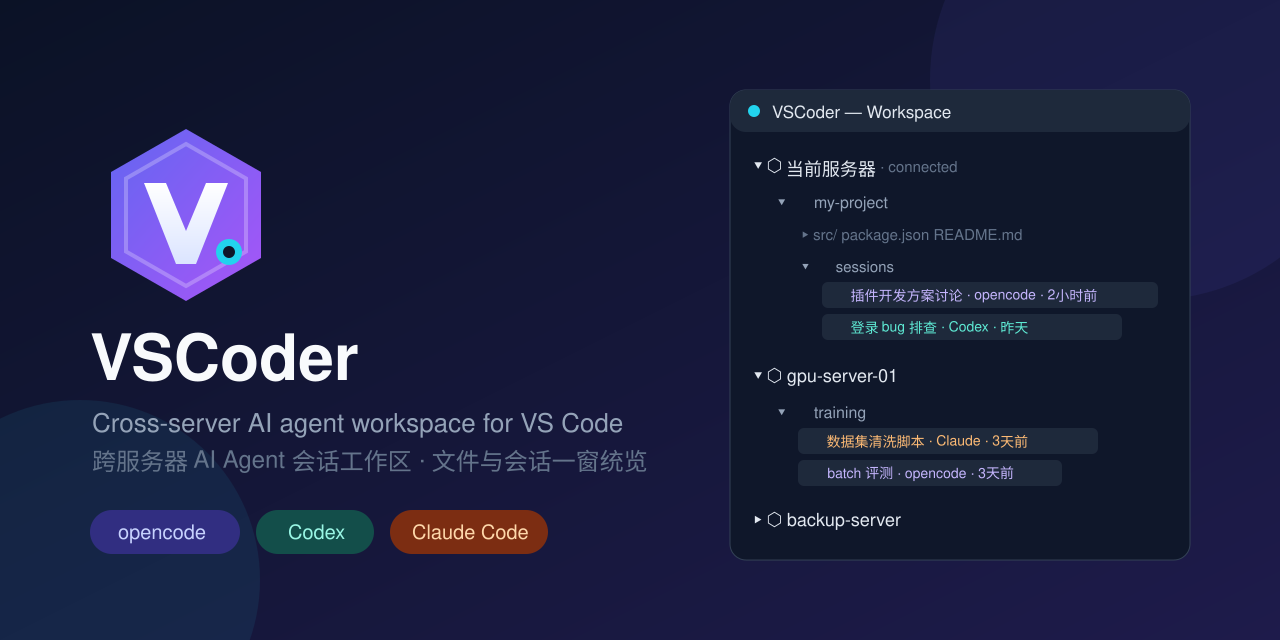
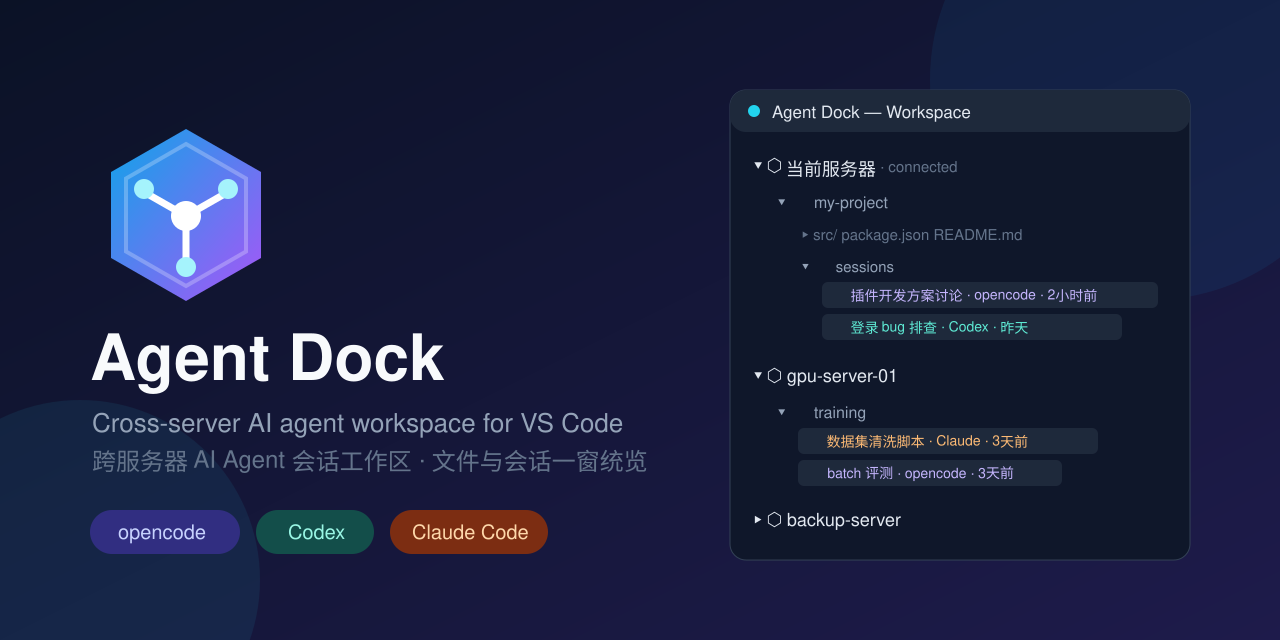
feat: rename to Agent Dock (vscoder name taken on marketplace)
verified free via gallery API (vscoder/agent-bridge/agent-hub taken;
agent-dock available). package/command/config/view ids ->
agentDock.*; config fallback chain vscoder + agentWorkspace; new
hub-spoke node logo + regenerated promo banner and README branding;
repo URL assumed github.com/royenheart/agent-dock

Changed region(s): [[0.0625, 0.1875, 0.2188, 0.4688], [0.0625, 0.5, 0.3438, 0.625], [0.5938, 0.1562, 0.75, 0.1875]]

diff --git a/src/commands.ts b/src/commands.ts
@@ -352,11 +352,11 @@ export function registerCommands(context: vscode.ExtensionContext, provider: Wor
     context.subscriptions.push(vscode.commands.registerCommand(id, fn));
   };
 
-  reg('vscoder.refresh', () => provider.refresh());
+  reg('agentDock.refresh', () => provider.refresh());
 
-  reg('vscoder.addServer', (node?: ServerNode) => addDirectoryFlow(provider, node));
+  reg('agentDock.addServer', (node?: ServerNode) => addDirectoryFlow(provider, node));
 
-  reg('vscoder.removeServer', async (node: ServerNode) => {
+  reg('agentDock.removeServer', async (node: ServerNode) => {
     if (!node?.server) {
       return;
     }
@@ -371,13 +371,13 @@ export function registerCommands(context: vscode.ExtensionContext, provider: Wor
     }
   });
 
-  reg('vscoder.connect', async (node: ServerNode) => {
+  reg('agentDock.connect', async (node: ServerNode) => {
     if (node?.server) {
       await connectToServer(node.server);
     }
   });
 
-  reg('vscoder.connectTerminal', (node: ServerNode) => {
+  reg('agentDock.connectTerminal', (node: ServerNode) => {
     if (!node?.server) {
       return;
     }
@@ -387,46 +387,46 @@ export function registerCommands(context: vscode.ExtensionContext, provider: Wor
     term.show();
   });
 
-  reg('vscoder.openSession', async (node: SessionNode) => {
+  reg('agentDock.openSession', async (node: SessionNode) => {
     const target = node ? sessionTarget(node) : undefined;
     if (target) {
       await SessionPanel.show(target, resumeInTerminal);
     }
   });
 
-  reg('vscoder.resumeSession', (node: SessionNode) => {
+  reg('agentDock.resumeSession', (node: SessionNode) => {
     const target = node ? sessionTarget(node) : undefined;
     if (target) {
       resumeInTerminal(target);
     }
   });
 
-  reg('vscoder.copySessionId', async (node: SessionNode) => {
+  reg('agentDock.copySessionId', async (node: SessionNode) => {
     if (node?.session) {
       await vscode.env.clipboard.writeText(node.session.id);
       vscode.window.showInformationMessage(t('Session ID copied: {0}', node.session.id));
     }
   });
 
-  reg('vscoder.fsOpenSide', (node: FsEntryNode) => {
+  reg('agentDock.fsOpenSide', (node: FsEntryNode) => {
     if (node?.uri) {
       void vscode.commands.executeCommand('vscode.open', node.uri, { viewColumn: vscode.ViewColumn.Beside });
     }
   });
 
-  reg('vscoder.fsCopyPath', async (node: FsEntryNode) => {
+  reg('agentDock.fsCopyPath', async (node: FsEntryNode) => {
     if (node?.uri) {
       await vscode.commands.executeCommand('copyFilePath', node.uri);
     }
   });
 
-  reg('vscoder.fsCopyRelativePath', async (node: FsEntryNode) => {
+  reg('agentDock.fsCopyRelativePath', async (node: FsEntryNode) => {
     if (node?.uri) {
       await vscode.commands.executeCommand('copyRelativeFilePath', node.uri);
     }
   });
 
-  reg('vscoder.fsRevealOS', async (node: FsEntryNode) => {
+  reg('agentDock.fsRevealOS', async (node: FsEntryNode) => {
     if (node?.uri) {
       try {
         await vscode.commands.executeCommand('revealFileInOS', node.uri);
@@ -436,7 +436,7 @@ export function registerCommands(context: vscode.ExtensionContext, provider: Wor
     }
   });
 
-  reg('vscoder.fsNewFile', async (node: FsEntryNode | FolderNode, name?: string) => {
+  reg('agentDock.fsNewFile', async (node: FsEntryNode | FolderNode, name?: string) => {
     const dir = targetDirUri(node);
     if (!dir) {
       return;
@@ -451,7 +451,7 @@ export function registerCommands(context: vscode.ExtensionContext, provider: Wor
     await vscode.window.showTextDocument(target, { preview: false });
   });
 
-  reg('vscoder.fsNewFolder', async (node: FsEntryNode | FolderNode, name?: string) => {
+  reg('agentDock.fsNewFolder', async (node: FsEntryNode | FolderNode, name?: string) => {
     const dir = targetDirUri(node);
     if (!dir) {
       return;
@@ -464,7 +464,7 @@ export function registerCommands(context: vscode.ExtensionContext, provider: Wor
     provider.refresh();
   });
 
-  reg('vscoder.fsRename', async (node: FsEntryNode, newName?: string) => {
+  reg('agentDock.fsRename', async (node: FsEntryNode, newName?: string) => {
     if (node?.kind !== 'fsEntry') {
       return;
     }
@@ -478,7 +478,7 @@ export function registerCommands(context: vscode.ExtensionContext, provider: Wor
     provider.refresh();
   });
 
-  reg('vscoder.fsDelete', async (node: FsEntryNode) => {
+  reg('agentDock.fsDelete', async (node: FsEntryNode) => {
     if (node?.kind !== 'fsEntry') {
       return;
     }
@@ -493,14 +493,14 @@ export function registerCommands(context: vscode.ExtensionContext, provider: Wor
     }
   });
 
-  reg('vscoder.fsOpenTerminal', (node: FsEntryNode | FolderNode) => {
+  reg('agentDock.fsOpenTerminal', (node: FsEntryNode | FolderNode) => {
     const dir = targetDirUri(node);
     if (dir) {
       vscode.window.createTerminal({ cwd: dir.fsPath }).show();
     }
   });
 
-  reg('vscoder.createSession', async (node: FolderNode, agent?: 'opencode' | 'codex' | 'claude') => {
+  reg('agentDock.createSession', async (node: FolderNode, agent?: 'opencode' | 'codex' | 'claude') => {
     if (node?.kind !== 'folder') {
       return;
     }
@@ -534,7 +534,7 @@ export function registerCommands(context: vscode.ExtensionContext, provider: Wor
     }
   });
 
-  reg('vscoder.fsRemoveFromWorkspace', (node: FolderNode): boolean => {    if (node?.kind !== 'folder' || !node.workspaceUri) {
+  reg('agentDock.fsRemoveFromWorkspace', (node: FolderNode): boolean => {    if (node?.kind !== 'folder' || !node.workspaceUri) {
       return false;
     }
     const folders = vscode.workspace.workspaceFolders ?? [];
@@ -553,7 +553,7 @@ export function registerCommands(context: vscode.ExtensionContext, provider: Wor
     return ok;
   });
 
-  reg('vscoder.openSettings', async () => {
-    await vscode.commands.executeCommand('vscoder.settings.focus');
+  reg('agentDock.openSettings', async () => {
+    await vscode.commands.executeCommand('agentDock.settings.focus');
   });
 }

diff --git a/test/e2e/suite/extension.test.js b/test/e2e/suite/extension.test.js
@@ -9,7 +9,7 @@ suite('agent-workspace e2e', () => {
   let api;
 
   suiteSetup(async () => {
-    const ext = vscode.extensions.getExtension('royenheart.vscoder');
+    const ext = vscode.extensions.getExtension('royenheart.agent-dock');
     assert.ok(ext, 'extension should be installed');
     api = await ext.activate();
     assert.ok(api && api.provider, 'activate() should export { provider, decorations }');
@@ -96,7 +96,7 @@ suite('agent-workspace e2e', () => {
   test('create session command opens a terminal for the picked agent', async () => {
     const children = await currentServerChildren();
     const wsFolder = children.find((n) => n.kind === 'folder' && n.workspaceUri);
-    await vscode.commands.executeCommand('vscoder.createSession', wsFolder, 'codex');
+    await vscode.commands.executeCommand('agentDock.createSession', wsFolder, 'codex');
     await new Promise((r) => setTimeout(r, 800));
     const term = vscode.window.terminals.find((t2) => t2.name.includes('codex'));
     assert.ok(term, `terminal for codex created, have: ${vscode.window.terminals.map((t2) => t2.name).join(',')}`);
@@ -111,16 +111,16 @@ suite('agent-workspace e2e', () => {
     const aTxt = kids.find((k) => k.kind === 'fsEntry' && k.name === 'a.txt');
     assert.ok(aTxt, 'a.txt node exists');
 
-    await vscode.commands.executeCommand('vscoder.fsCopyPath', aTxt);
+    await vscode.commands.executeCommand('agentDock.fsCopyPath', aTxt);
     const clip = await vscode.env.clipboard.readText();
     assert.ok(clip.endsWith('a.txt'), `clipboard should end with a.txt, got ${clip}`);
 
-    await vscode.commands.executeCommand('vscoder.fsNewFile', wsFolder, 'e2e-new.txt');
+    await vscode.commands.executeCommand('agentDock.fsNewFile', wsFolder, 'e2e-new.txt');
     const created = await vscode.workspace.fs.stat(vscode.Uri.joinPath(wsUri, 'e2e-new.txt'));
     assert.ok(created, 'new file created');
 
     await vscode.commands.executeCommand(
-      'vscoder.fsRename',
+      'agentDock.fsRename',
       { kind: 'fsEntry', uri: vscode.Uri.joinPath(wsUri, 'e2e-new.txt'), name: 'e2e-new.txt', isDir: false },
       'e2e-renamed.txt',
     );
@@ -132,9 +132,9 @@ suite('agent-workspace e2e', () => {
     const children = await currentServerChildren();
     const wsFolder = children.find((n) => n.kind === 'folder' && n.workspaceUri);
     assert.ok(wsFolder, 'workspace folder node exists');
-    const result = await vscode.commands.executeCommand('vscoder.fsRemoveFromWorkspace', wsFolder);
+    const result = await vscode.commands.executeCommand('agentDock.fsRemoveFromWorkspace', wsFolder);
     assert.equal(typeof result, 'boolean', 'command returns a boolean contract');
-    const bogus = await vscode.commands.executeCommand('vscoder.fsRemoveFromWorkspace', { kind: 'folder', serverKey: 'x', path: '/x', label: 'x' });
+    const bogus = await vscode.commands.executeCommand('agentDock.fsRemoveFromWorkspace', { kind: 'folder', serverKey: 'x', path: '/x', label: 'x' });
     assert.equal(bogus, false, 'non-workspace folder node is rejected');
   });
 

diff --git a/src/extension.ts b/src/extension.ts
@@ -8,11 +8,11 @@ import { registerCommands } from './commands';
 export function activate(context: vscode.ExtensionContext): { provider: WorkspaceProvider; decorations: SessionDecorationProvider } {
   SessionPanel.init(context.extensionUri);
   const provider = new WorkspaceProvider();
-  const tree = vscode.window.createTreeView('vscoder.workspace', {
+  const tree = vscode.window.createTreeView('agentDock.workspace', {
     treeDataProvider: provider,
     showCollapseAll: true,
   });
-  const treeExplorer = vscode.window.createTreeView('vscoder.workspaceExplorer', {
+  const treeExplorer = vscode.window.createTreeView('agentDock.workspaceExplorer', {
     treeDataProvider: provider,
     showCollapseAll: true,
   });
@@ -39,7 +39,7 @@ export function activate(context: vscode.ExtensionContext): { provider: Workspac
 
   context.subscriptions.push(
     vscode.workspace.onDidChangeConfiguration((e) => {
-      if (e.affectsConfiguration('vscoder')) {
+      if (e.affectsConfiguration('agentDock')) {
         provider.refresh();
       }
     }),

diff --git a/src/config.ts b/src/config.ts
@@ -2,16 +2,19 @@ import * as os from 'node:os';
 import * as vscode from 'vscode';
 import type { ServerConfig } from './model';
 
-const SECTION = 'vscoder';
-const LEGACY_SECTION = 'agentWorkspace';
+const SECTION = 'agentDock';
+const LEGACY_SECTIONS = ['vscoder', 'agentWorkspace'];
 
 export function getServers(): ServerConfig[] {
   const cfg = vscode.workspace.getConfiguration(SECTION);
   let raw = cfg.get<unknown>('servers', []);
   if (!Array.isArray(raw) || raw.length === 0) {
-    const legacy = vscode.workspace.getConfiguration(LEGACY_SECTION).get<unknown>('servers', []);
-    if (Array.isArray(legacy) && legacy.length > 0) {
-      raw = legacy;
+    for (const legacySection of LEGACY_SECTIONS) {
+      const legacy = vscode.workspace.getConfiguration(legacySection).get<unknown>('servers', []);
+      if (Array.isArray(legacy) && legacy.length > 0) {
+        raw = legacy;
+        break;
+      }
     }
   }
   if (!Array.isArray(raw)) {

diff --git a/src/tree/workspaceProvider.ts b/src/tree/workspaceProvider.ts
@@ -182,7 +182,7 @@ export class WorkspaceProvider implements vscode.TreeDataProvider<Node> {
           `**${s.title}**\n\n- agent: ${AGENT_LABEL[s.agent]}\n- id: \`${s.id}\`\n- cwd: \`${s.cwd}\`\n- ${t('updated')}: ${s.timeUpdated ? new Date(s.timeUpdated).toLocaleString() : '-'}`,
         );
         item.command = {
-          command: 'vscoder.openSession',
+          command: 'agentDock.openSession',
           title: 'Open Transcript',
           arguments: [node],
         };

diff --git a/src/views/settingsView.ts b/src/views/settingsView.ts
@@ -5,7 +5,7 @@ import { gatherSettings, type SettingsData } from './settingsData';
 import { t } from '../i18n';
 
 export class SettingsViewProvider implements vscode.WebviewViewProvider {
-  static readonly viewType = 'vscoder.settings';
+  static readonly viewType = 'agentDock.settings';
   private view?: vscode.WebviewView;
 
   constructor(private readonly extensionUri: vscode.Uri) {}

diff --git a/src/views/sessionPanel.ts b/src/views/sessionPanel.ts
@@ -40,7 +40,7 @@ export class SessionPanel {
     const panel =
       existing ??
       vscode.window.createWebviewPanel(
-        'vscoder.session',
+        'agentDock.session',
         `${AGENT_LABEL[target.session.agent]} · ${target.session.title.slice(0, 40)}`,
         vscode.ViewColumn.Active,
         { enableScripts: true, localResourceRoots: [panelExtensionUri] },

diff --git a/README.md b/README.md
@@ -1,22 +1,22 @@
 <div align="center">
-  <img src="media/logo.png" width="96" alt="VSCoder logo">
-  <h1>VSCoder</h1>
+  <img src="media/logo.png" width="96" alt="Agent Dock logo">
+  <h1>Agent Dock</h1>
   <p><strong>跨服务器 AI Agent 会话工作区</strong> · Cross-server AI agent workspace for VS Code</p>
   <p>
-    <a href="https://github.com/royenheart/vscoder/actions/workflows/ci.yml"><img src="https://github.com/royenheart/vscoder/actions/workflows/ci.yml/badge.svg" alt="CI"></a>
+    <a href="https://github.com/royenheart/agent-dock/actions/workflows/ci.yml"><img src="https://github.com/royenheart/agent-dock/actions/workflows/ci.yml/badge.svg" alt="CI"></a>
     <img src="https://img.shields.io/badge/license-MIT-blue.svg" alt="license">
     <img src="https://img.shields.io/badge/vscode-%5E1.96.0-007acc.svg" alt="vscode">
   </p>
-  <img src="media/social.png" width="880" alt="VSCoder — 跨服务器 AI Agent 会话工作区">
+  <img src="media/social.png" width="880" alt="Agent Dock — 跨服务器 AI Agent 会话工作区">
 </div>
 
 ---
 
-一个窗口，统览多台服务器上的 AI 编程会话：VS Code 的 workspace 只能展示当前连接服务器的文件，VSCoder 在此基础上把 **opencode / Codex CLI / Claude Code** 的历史会话按服务器聚合到同一棵树里——当前服务器看文件+会话，其他服务器只看会话，随时切换连接、恢复对话。
+一个窗口，统览多台服务器上的 AI 编程会话：VS Code 的 workspace 只能展示当前连接服务器的文件，Agent Dock 在此基础上把 **opencode / Codex CLI / Claude Code** 的历史会话按服务器聚合到同一棵树里——当前服务器看文件+会话，其他服务器只看会话，随时切换连接、恢复对话。
 
 ## 功能
 
-- **统一 Workspace 树**（活动栏「VSCoder」+ 内置「资源管理器」面板双入口，内容同步）
+- **统一 Workspace 树**（活动栏「Agent Dock」+ 内置「资源管理器」面板双入口，内容同步）
   - 当前服务器：workspace 目录的文件树 + `sessions` 子节点下的 agent 会话（目录 → sessions → 各会话）
   - 其他服务器：只显示**显式添加的目录**及其会话；其余会话收进「其他目录会话」
   - 内置资源管理器中，含会话的目录显示 **AI 徽标**；文件节点有完整右键菜单（打开/复制路径/新建/重命名/删除/终端打开/从工作区移除）
